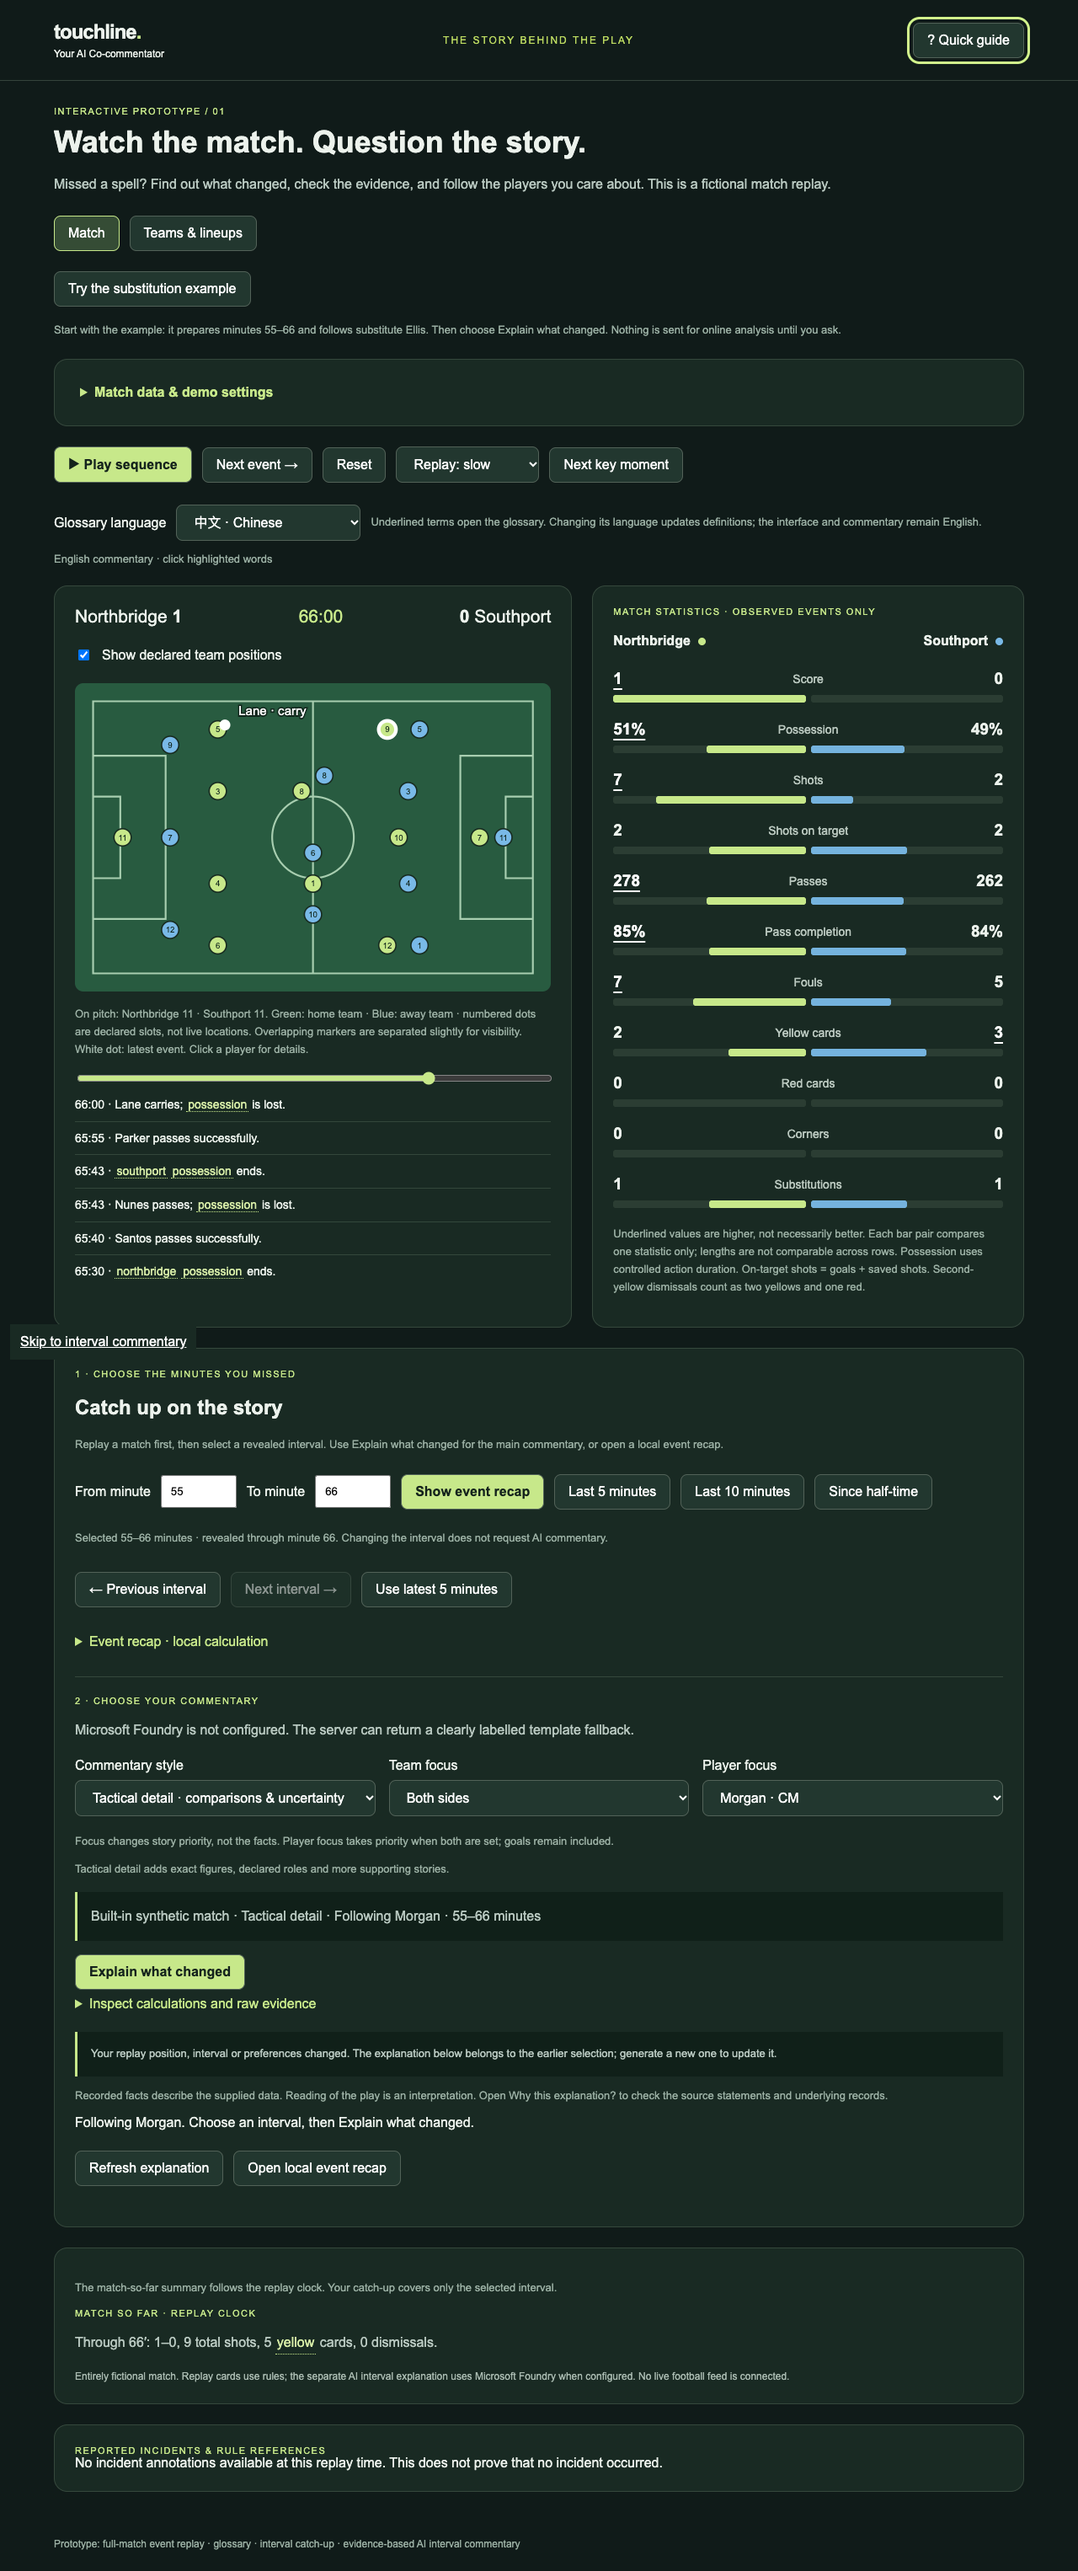
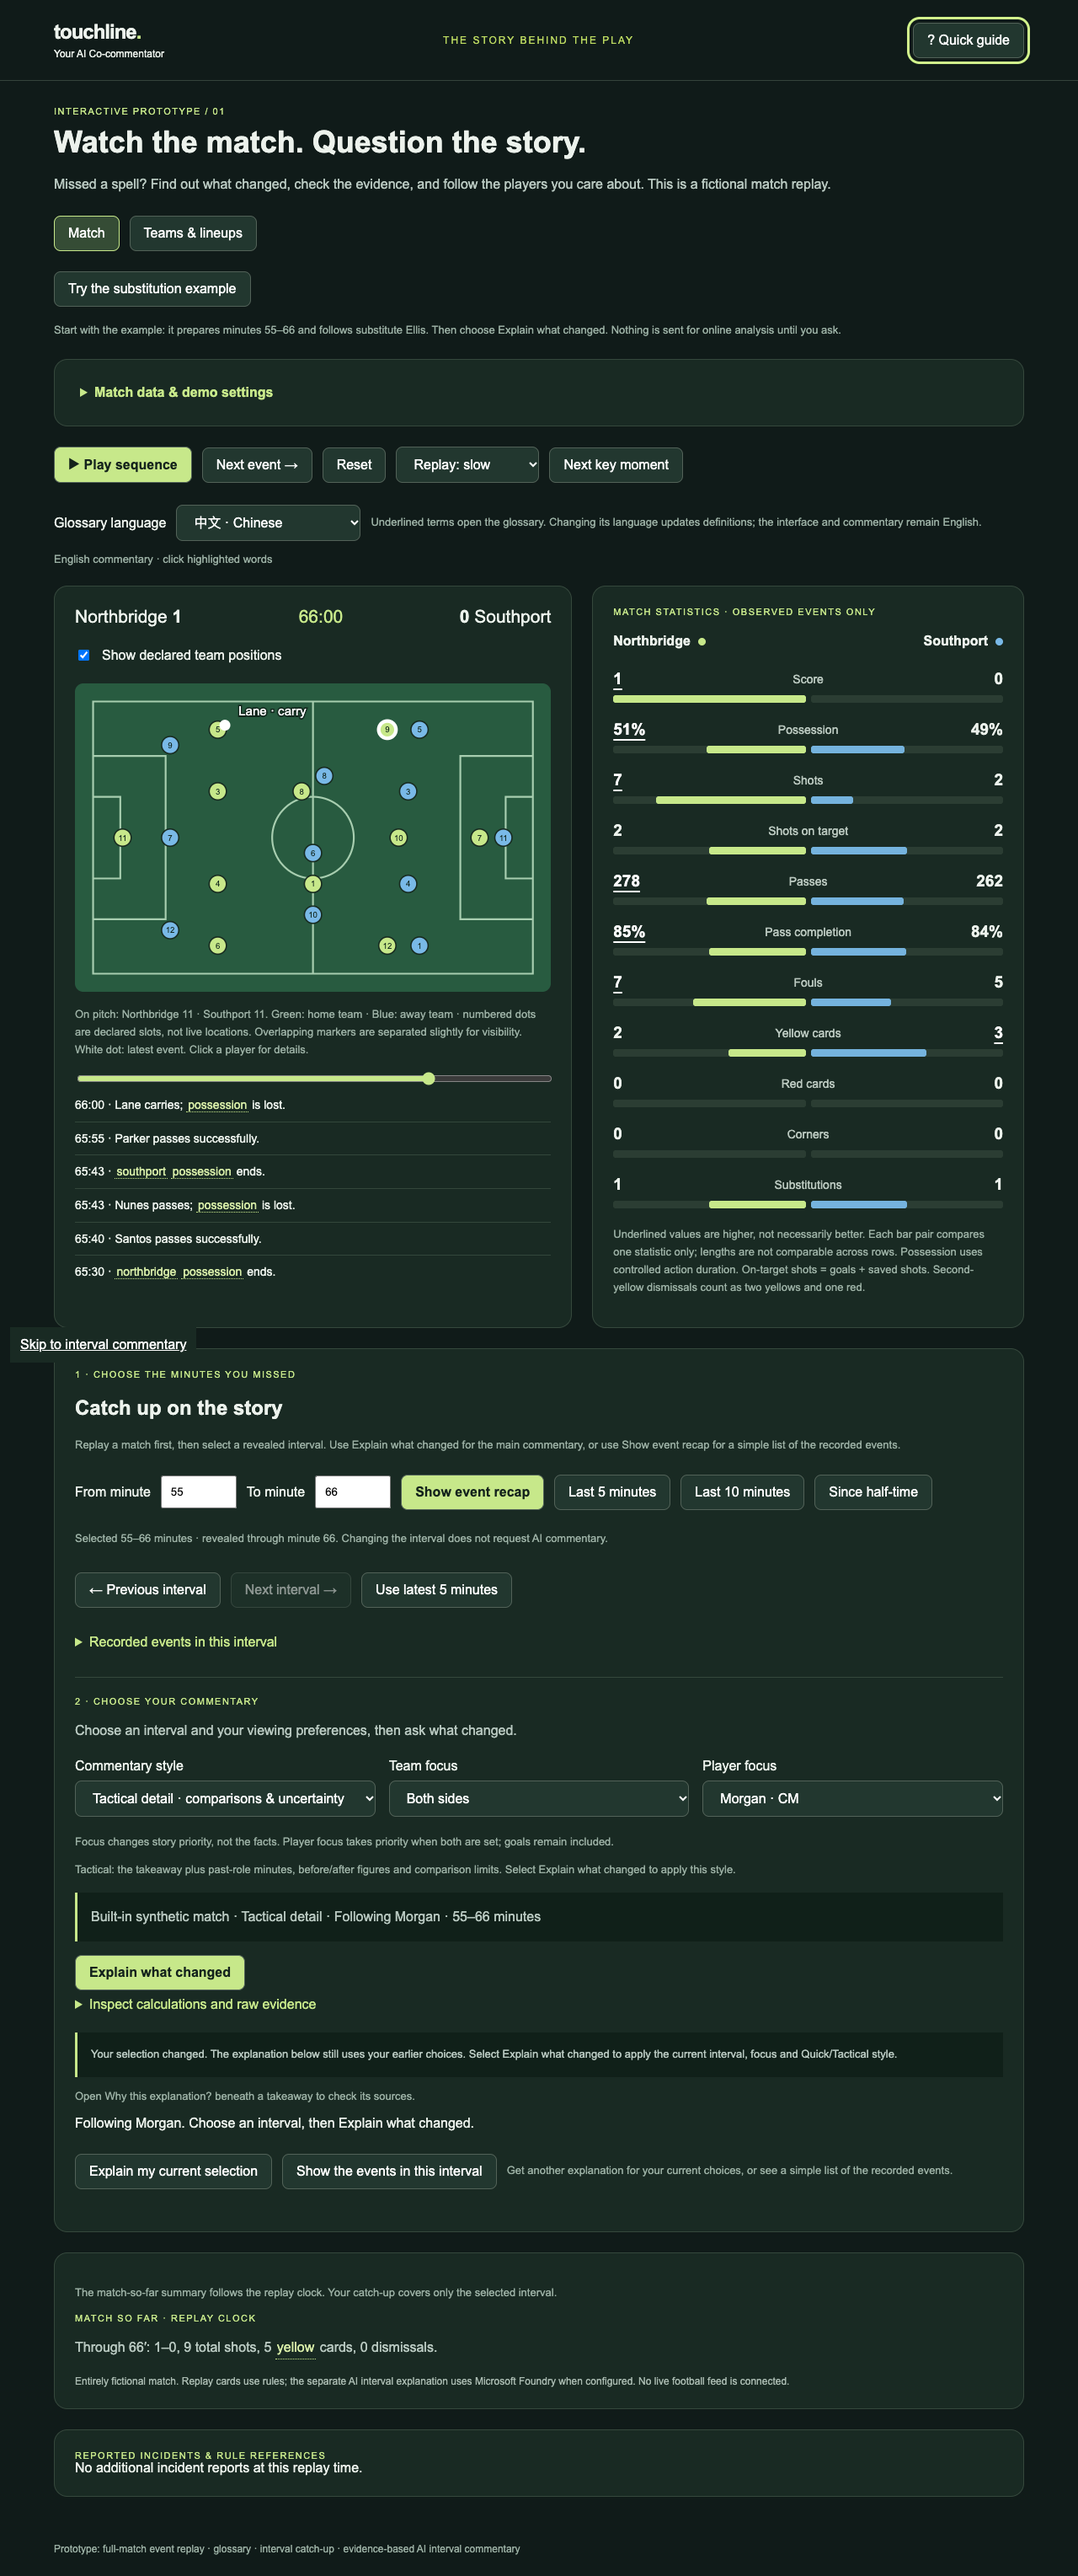
Align review documentation and saved desktop capture

diff --git a/README.md b/README.md
@@ -110,4 +110,4 @@ Batch 7 integrates [the fan experience](docs/BATCH_7.md): interval navigation, v
 
 Batch 8 provides [four-way comparative evaluation and repairs](docs/BATCH_8.md), with saved real-model attempts, identical source packets per pair, tool/resource traces and explicit failures. These small runs do **not** establish that investigation is more useful than rules or ranking. `npm run evaluate:comparative` is offline by default; live runs require an explicit flag and consume existing Azure allowance.
 
-[Batch 9 usability review candidate](docs/BATCH_9.md) improves first-visit guidance, source disclosures and visible evidence limitations. Builder/browser checks pass; unfamiliar-participant responses and resulting fixes are pending, so Batch 9 is not yet marked complete.
+[Batch 9 usability review](docs/BATCH_9.md) improves first-visit guidance, source disclosures and visible evidence limitations. Written feedback led to shorter substitution takeaways, explained history figures, clearer mode/update actions and one-click future-interval recovery. [Reported results and repairs](docs/BATCH_9_RESULTS.md) distinguish feedback from builder checks; unfamiliar-user source-finding and follow-up comprehension remain unverified.
